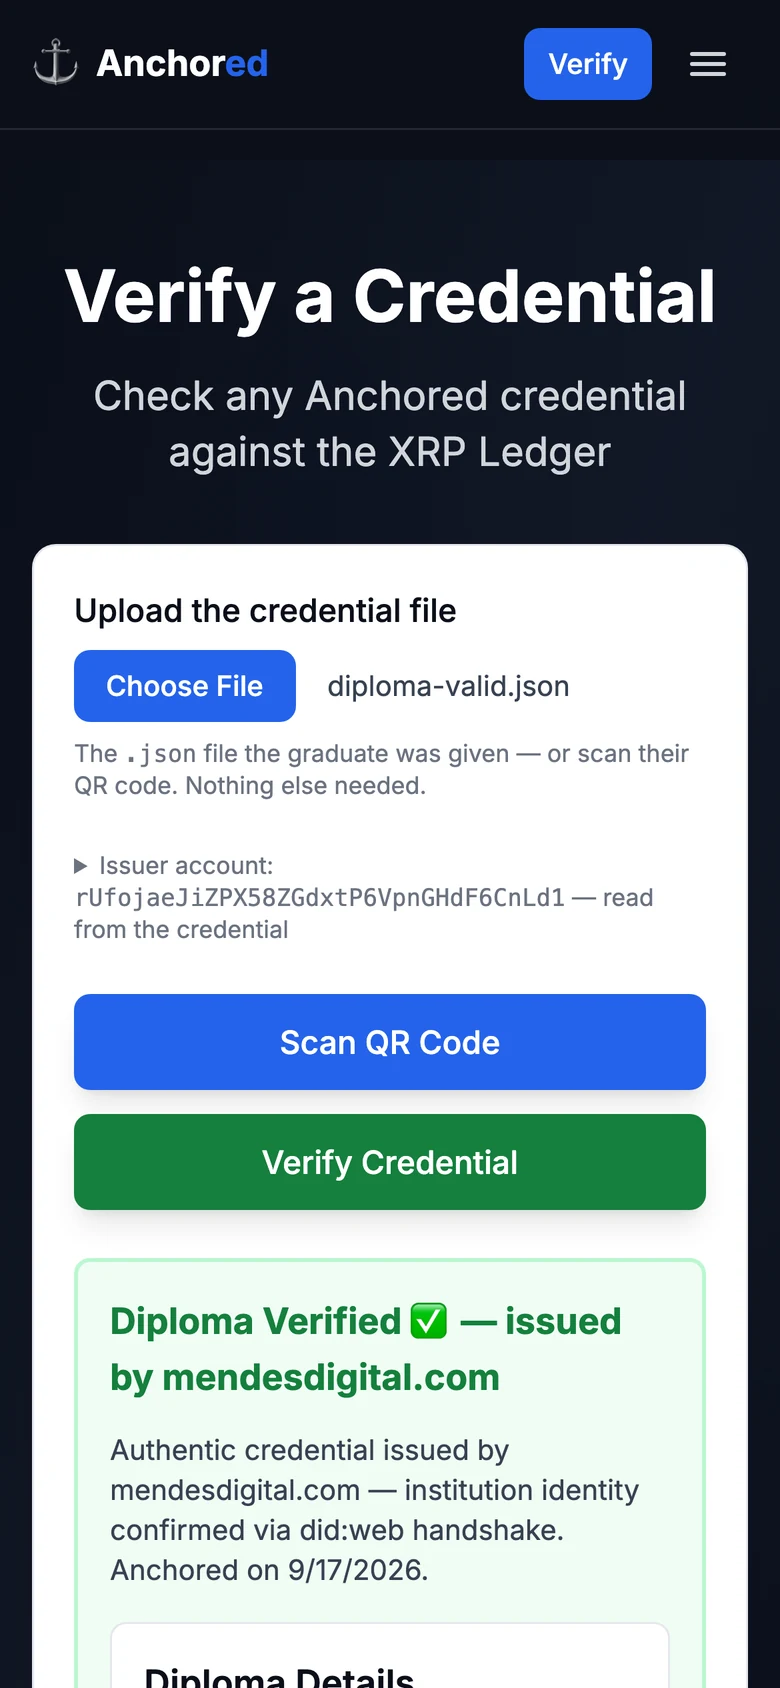
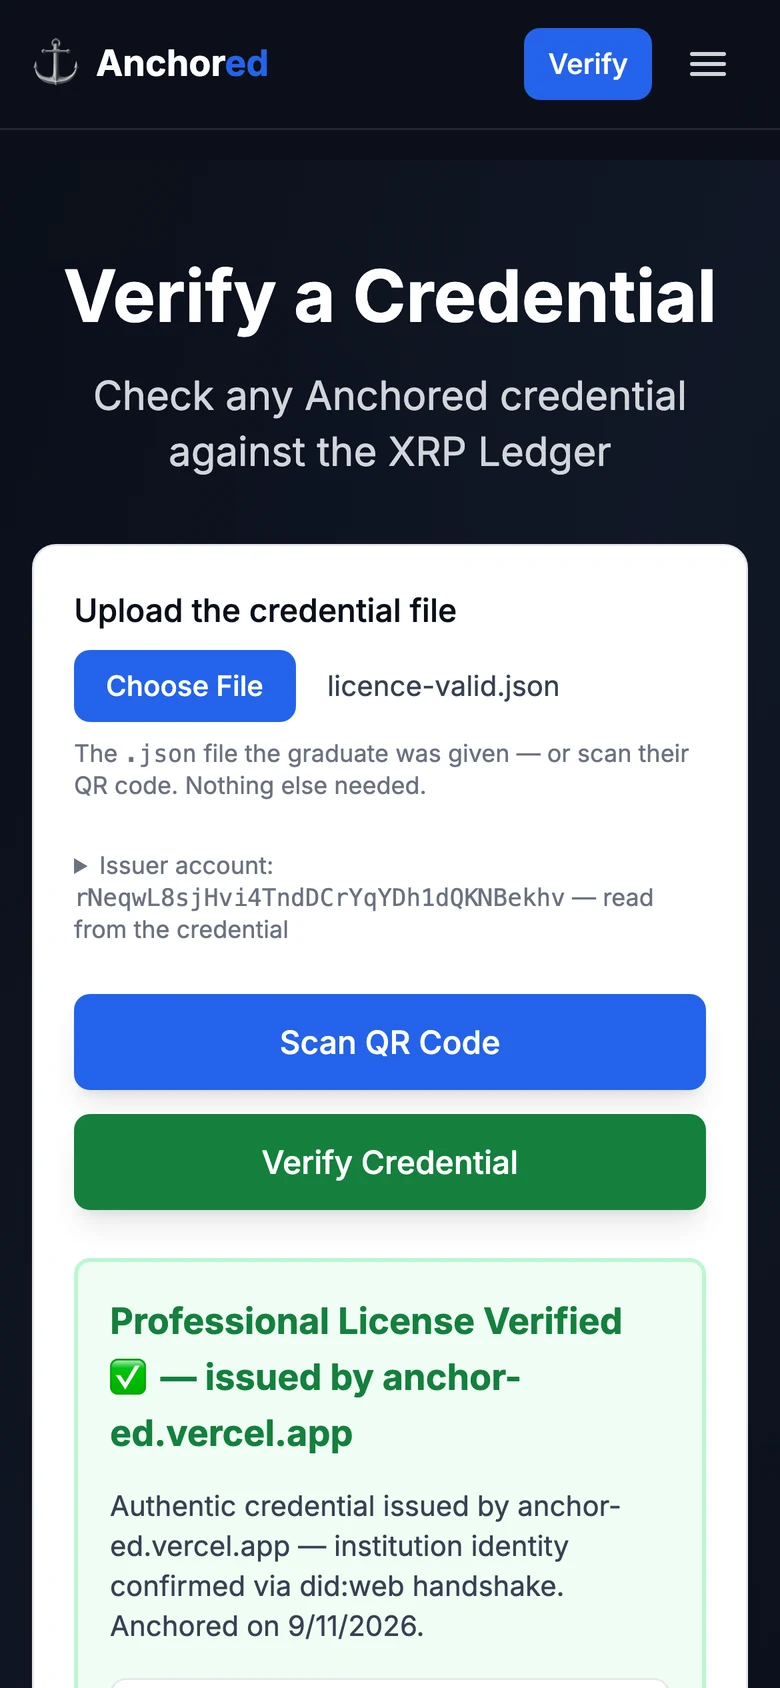
copy: describe Anchored as general credential infrastructure
The landing page and app read as an education product: diploma
screenshots, "graduating class", "your-university.edu", and a mock
dashboard listing a nursing degree for a named college. Interest has come
from licensing and regulatory bodies, and the engine has never been
education-specific.

Result screenshots now show a professional licence rather than a diploma,
and the copy says organisation, holder and batch rather than institution,
graduate and class.

Also fixes a real defect found on the way: the revoke page read
studentName and degree directly, so revoking any licence or workforce
credential showed "Unknown graduate". It now takes the holder's name from
the credential type's primaryField, as the rest of the app already does.

Changed region(s): [[0.1231, 0.7701, 0.8308, 1.0], [0.1231, 0.5237, 0.7385, 0.5545], [0.4308, 0.4005, 0.7385, 0.4313]]

diff --git a/src/pages/RevokeDiploma.vue b/src/pages/RevokeDiploma.vue
@@ -12,7 +12,7 @@
         <div class="text-center mb-8 sm:mb-12">
           <h1 class="text-4xl md:text-5xl font-bold text-white mb-4">Revoke a Credential</h1>
           <p class="text-xl text-gray-300 max-w-2xl mx-auto">
-            Burn a diploma NFT so verifiers see it as revoked — for rescinded degrees
+            Withdraw a credential so every future check reports it as revoked
           </p>
         </div>
 
@@ -65,7 +65,7 @@
             <h2 class="text-xl font-bold text-brand-black mb-2">Revoke a single credential</h2>
             <p class="text-sm text-gray-600 mb-4">
               For batch-issued credentials, burning the anchor above would revoke the entire class.
-              Upload one graduate's credential file to revoke only theirs — this publishes a signed
+              Upload one holder's credential file to revoke only theirs — this publishes a signed
               revocation record for that credential's hash, leaving the rest of the batch valid.
             </p>
             <input
@@ -76,7 +76,7 @@
             />
             <div v-if="credentialToRevoke" class="mt-4 p-4 bg-gray-50 border border-gray-200 rounded-lg">
               <p class="text-sm text-gray-700 mb-1">
-                <span class="font-semibold">{{ credentialToRevoke.studentName }}</span> — {{ credentialToRevoke.degree }}
+                <span class="font-semibold">{{ credentialToRevoke.holderName }}</span><template v-if="credentialToRevoke.detail"> — {{ credentialToRevoke.detail }}</template>
               </p>
               <p class="text-xs font-mono text-gray-500 break-all mb-3">{{ credentialToRevoke.hash }}</p>
               <button
@@ -142,6 +142,7 @@ import { withXrpl, submitAndWait, waitForValidatedTx } from '../lib/xrplClient'
 import { useXamanSign } from '../composables/useXamanSign'
 import { buildRevocationTx } from '../lib/verify'
 import { credentialHash } from '../lib/crypto'
+import { getCredentialType, inferCredentialType } from '../lib/credentialTypes'
 import { Wallet } from 'xrpl'
 import XamanSignModal from '../components/XamanSignModal.vue'
 
@@ -163,7 +164,7 @@ interface PendingRevocation {
   label?: string
 }
 const pending = ref<PendingRevocation | null>(null)
-const credentialToRevoke = ref<{ hash: string; studentName: string; degree: string } | null>(null)
+const credentialToRevoke = ref<{ hash: string; holderName: string; detail: string } | null>(null)
 
 const { xaman, cancel: cancelXamanSign, close: closeXaman, signViaXaman } = useXamanSign()
 
@@ -197,7 +198,7 @@ function askRevokeCredential() {
   pending.value = {
     kind: 'credential',
     target: credentialToRevoke.value.hash,
-    label: credentialToRevoke.value.studentName,
+    label: credentialToRevoke.value.holderName,
   }
 }
 
@@ -212,10 +213,18 @@ async function handleCredentialUpload(e: Event) {
     const vc = data.vc || data
     const salt = data.salt || vc.proof?.salt || ''
     if (!salt) throw new Error('No salt found in this credential file.')
+    // Read the holder's name from the credential type's own primary field.
+    // Hardcoding studentName/degree showed every licence or workforce
+    // credential as "Unknown graduate".
+    const subject = vc.credentialSubject || {}
+    const type = data.credentialType
+      ? getCredentialType(data.credentialType)
+      : inferCredentialType(subject) ?? getCredentialType(undefined)
+    const detailField = type.fields.find((f) => f.key !== type.primaryField && f.type !== 'number')
     credentialToRevoke.value = {
       hash: await credentialHash(vc, salt),
-      studentName: vc.credentialSubject?.studentName || 'Unknown graduate',
-      degree: vc.credentialSubject?.degree || '',
+      holderName: String(subject[type.primaryField] ?? '').trim() || 'Unnamed holder',
+      detail: detailField ? String(subject[detailField.key] ?? '') : '',
     }
   } catch (err: any) {
     error.value = 'Could not read credential file: ' + (err?.message || String(err))

diff --git a/src/pages/Home.vue b/src/pages/Home.vue
@@ -21,8 +21,8 @@
           </h1>
 
           <p v-reveal="2" class="mt-6 text-lg sm:text-xl text-gray-300 max-w-xl">
-            Anchored lets any institution or regulator issue licences, certifications and
-            diplomas that anyone can check in seconds — with no fee, no account, and no
+            Anchored lets any organisation issue licences, certificates and permits that
+            anyone can check in seconds — with no fee, no account, and no
             phone call to your office.
           </p>
 
@@ -56,7 +56,7 @@
           A credential is only worth what someone can confirm about it.
         </h2>
         <div class="mt-12 grid sm:grid-cols-3 gap-6">
-          <CountUpStat :to="10" suffix=" days" text="Typical wait for an institution to confirm a credential by email or phone." />
+          <CountUpStat :to="10" suffix=" days" text="Typical wait for an issuer to confirm a credential by email or phone." />
           <CountUpStat :to="25" prefix="$" suffix=" per check" text="Charged by commercial verification services — every time, forever." />
           <CountUpStat :to="7600" group text="Fraudulent nursing credentials uncovered in a single 2023 US scheme." />
         </div>
@@ -95,7 +95,7 @@
         <div v-reveal class="reveal-left">
           <h2 class="text-3xl sm:text-4xl font-bold text-white">Everything you have issued, in one place</h2>
           <p class="mt-4 text-gray-400">
-            Every credential your institution has anchored, and every one it has withdrawn —
+            Every credential your organisation has anchored, and every one it has withdrawn —
             read straight from the ledger, not from a database we keep about you.
           </p>
           <ul class="mt-6 space-y-3">
@@ -166,7 +166,7 @@ const states = [
     title: 'Verified',
     colour: 'text-green-400',
     img: '/screens/verified.webp',
-    alt: 'A genuine credential verifying, naming the issuing institution',
+    alt: 'A genuine credential verifying, naming the issuing organisation',
     text: 'Genuine, unaltered, and issued by the organisation it names — confirmed against that organisation’s own domain.',
   },
   {

diff --git a/src/components/FlowShowcase.vue b/src/components/FlowShowcase.vue
@@ -1,11 +1,11 @@
 <template>
   <!-- A device pinned while the four flows scroll past it, in the order an
-       institution meets them.
+       organisation meets them.
 
        The frame changes with the step: Identity, Issue and Revoke are desk
        work and appear in a browser; Verify appears in a phone, because that is
        genuinely where it happens — an employer scanning a QR. Putting a
-       registrar's batch-issuing screen in a phone would look slicker and
+       batch-issuing screen in a phone would look slicker and
        misrepresent how the product is used. -->
   <section class="relative bg-gray-900 py-16 sm:py-24 px-4 sm:px-6 lg:px-8">
     <div class="max-w-6xl mx-auto">
@@ -77,8 +77,8 @@ const steps = [
     title: 'Prove who you are, once',
     device: 'browser' as const,
     img: '/screens/identity.webp',
-    alt: 'Binding an institution domain to its issuing wallet',
-    text: 'Bind your own domain to your issuing account, in both directions. Verified credentials then display your institution’s name rather than an anonymous identifier.',
+    alt: 'Binding an organisation domain to its issuing wallet',
+    text: 'Bind your own domain to your issuing account, in both directions. Verified credentials then display your organisation’s name rather than an anonymous identifier.',
     points: [
       'Impersonation requires compromising your website and your keys',
       'Anyone can check the binding independently, forever',
@@ -89,7 +89,7 @@ const steps = [
     device: 'browser' as const,
     img: '/screens/issue.webp',
     alt: 'Issuing a credential',
-    text: 'Issue a single credential, or anchor an entire graduating class under one signature. Recipients get their credential and a QR code automatically.',
+    text: 'Issue a single credential, or anchor an entire batch under one signature. Recipients get their credential and a QR code automatically.',
     points: [
       'Forty credentials or four hundred — the same single signature',
       'Only a fingerprint is published; no personal data reaches the ledger',

diff --git a/src/pages/InstitutionIdentity.vue b/src/pages/InstitutionIdentity.vue
@@ -10,10 +10,10 @@
 
       <div class="max-w-4xl mx-auto relative z-10">
         <div class="text-center mb-8 sm:mb-12">
-          <h1 class="text-4xl md:text-5xl font-bold text-white mb-4">Institution Identity</h1>
+          <h1 class="text-4xl md:text-5xl font-bold text-white mb-4">Issuer Identity</h1>
           <p class="text-xl text-gray-300 max-w-2xl mx-auto">
             Bind your XRPL wallet to your domain so verifiers see
-            <span class="text-green-400 font-medium">"issued by your-university.edu"</span>
+            <span class="text-green-400 font-medium">"issued by your-organisation.com"</span>
             instead of a wallet address
           </p>
         </div>
@@ -21,8 +21,8 @@
         <div class="bg-white rounded-xl shadow-xl p-5 sm:p-8 border border-gray-200">
           <div class="space-y-6">
             <div>
-              <label class="block font-medium text-brand-black mb-2">Institution Domain</label>
-              <input v-model="domain" class="w-full p-3 border border-gray-300 rounded-lg focus:ring-2 focus:ring-primary-blue focus:border-transparent transition-all font-mono" placeholder="registrar.university.edu" />
+              <label class="block font-medium text-brand-black mb-2">Organisation Domain</label>
+              <input v-model="domain" class="w-full p-3 border border-gray-300 rounded-lg focus:ring-2 focus:ring-primary-blue focus:border-transparent transition-all font-mono" placeholder="credentials.your-organisation.com" />
             </div>
             <div>
               <label class="block font-medium text-brand-black mb-2">Issuing Wallet Address</label>

diff --git a/src/pages/VerifyDiploma.vue b/src/pages/VerifyDiploma.vue
@@ -22,7 +22,7 @@
               <label class="block font-medium text-brand-black mb-2">Upload the credential file</label>
               <input type="file" @change="handleFileUpload" class="block w-full text-sm text-gray-700 file:mr-4 file:py-2 file:px-4 file:rounded-lg file:border-0 file:text-sm file:font-medium file:bg-primary-blue file:text-white hover:file:bg-blue-700 file:cursor-pointer file:transition-all file:duration-200" accept=".json" />
               <p class="text-xs text-gray-500 mt-2">
-                The <span class="font-mono">.json</span> file the graduate was given — or scan their QR code. Nothing else needed.
+                The <span class="font-mono">.json</span> file you were given — or scan the QR code. Nothing else needed.
               </p>
             </div>
 
@@ -320,7 +320,7 @@ const handleVerify = async () => {
 
     if (identityVerified) {
       resultState.value = 'verified'
-      resultReason.value = `Authentic credential issued by ${issuerDomain.value} — institution identity confirmed via did:web handshake. ${provenance}`
+      resultReason.value = `Authentic credential issued by ${issuerDomain.value} — issuer identity confirmed via did:web handshake. ${provenance}`
     } else {
       resultState.value = 'anchored'
       resultReason.value = issuerDomain.value

diff --git a/src/components/MockDashboard.vue b/src/components/MockDashboard.vue
@@ -15,7 +15,7 @@
       </div>
       <div class="flex items-center gap-2 text-xs text-gray-400">
         <span class="w-1.5 h-1.5 rounded-full bg-green-400"></span>
-        salcc.edu.lc
+        anchor-ed.vercel.app
       </div>
     </div>
 
@@ -58,7 +58,7 @@ const stats = reactive([
 ])
 
 const rows = [
-  { label: 'Associate Degree in Nursing — Class of 2026', ref: 'vc:merkle:2ec5884e…', state: 'Live' },
+  { label: 'Site Safety Induction — 120 workers', ref: 'vc:merkle:2ec5884e…', state: 'Live' },
   { label: 'Explosives Handling Licence', ref: 'vc:sha256:a27fa348…', state: 'Live' },
   { label: 'Petroleum Storage Licence', ref: 'vc:sha256:77820582…', state: 'Revoked' },
 ]

diff --git a/src/pages/IssueDiploma.vue b/src/pages/IssueDiploma.vue
@@ -65,7 +65,7 @@
                 v-model="holderEmail"
                 type="email"
                 class="w-full p-3 border border-gray-300 rounded-lg text-sm focus:ring-2 focus:ring-primary-blue focus:border-transparent transition-all"
-                placeholder="graduate@example.com"
+                placeholder="holder@example.com"
               />
               <p class="text-xs text-gray-500 mt-1">
                 Leave blank to download and send it yourself.
